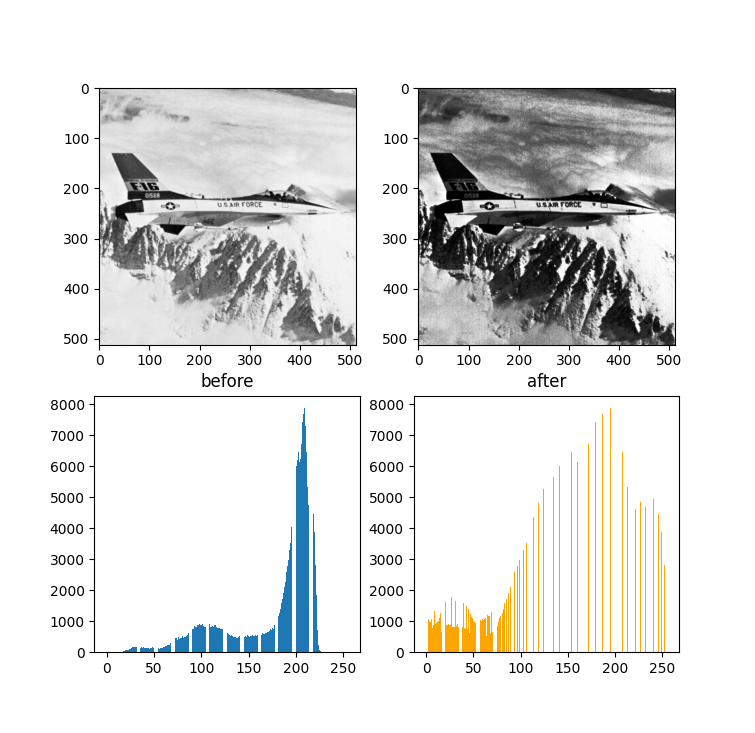
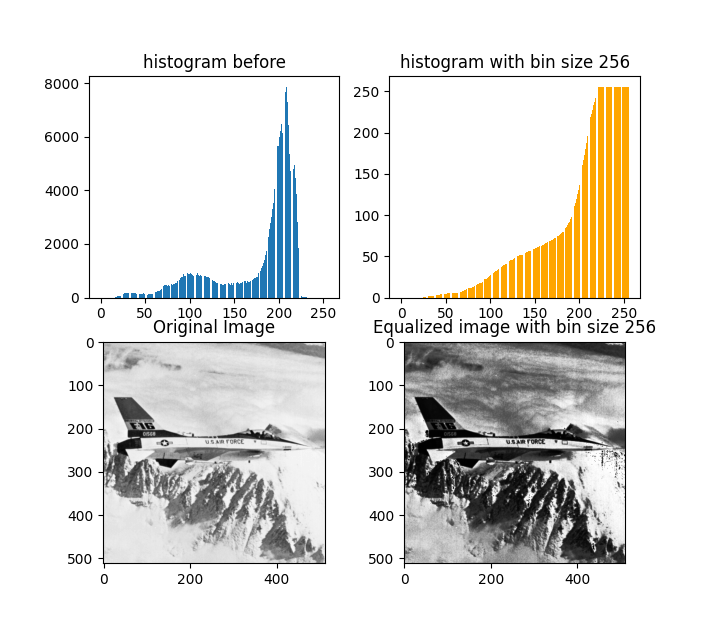
finalized hist_eq

diff --git a/hw1/hist_eq.py b/hw1/hist_eq.py
@@ -5,8 +5,8 @@ import numpy as np
 import math
 
 # Setting the input and output files.
-IN_FILE = 'hw1/sample_images/jetplane.png'
-OUT_FILE = 'hw1/sample_images/jetplane_64.png'
+IN_FILE = 'sample_images/jetplane.png'
+OUT_FILE = 'sample_images/jetplane_64.png'
 
 # # Set the bin size
 # bin = 256
@@ -86,8 +86,16 @@ x_axis = np.arange(256)
 fig = plt.figure()
 fig.add_subplot(2, 2, 1)
 a = plt.bar(x_axis, histogram)
-a = plt.title('before')
+a = plt.title('histogram before')
 fig.add_subplot(2, 2, 2)
 b = plt.bar(x_axis, hist_out, color="orange")
-b = plt.title('after')
+b = plt.title('histogram with bin size 64')
+fig.add_subplot(2, 2, 3)
+orig_img = mpimg.imread(IN_FILE)
+c = plt.imshow(orig_img, cmap='gray')
+c = plt.title('Original Image')
+fig.add_subplot(2, 2, 4)
+eq_img = mpimg.imread(OUT_FILE)
+d = plt.imshow(eq_img, cmap='gray')
+d = plt.title('Equalized image with bin size 64')
 plt.show()
